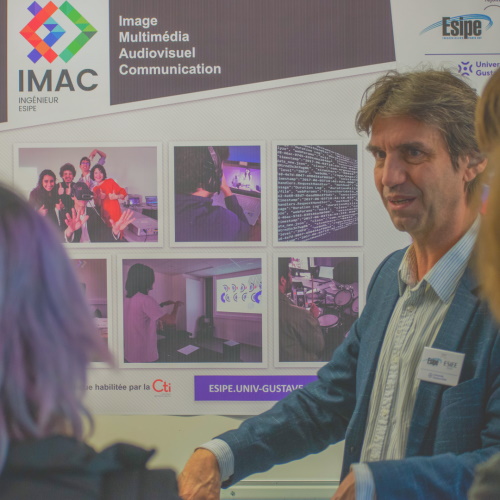
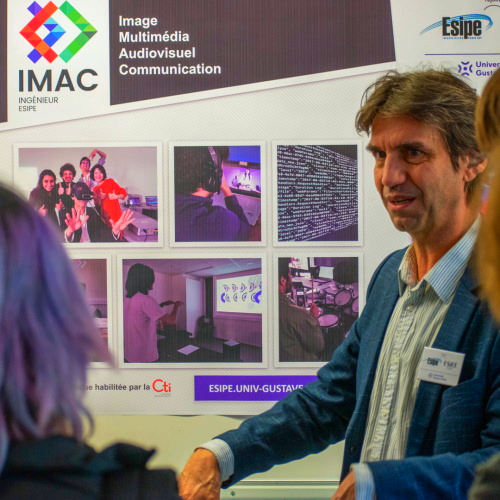
fix histogram

diff --git a/src/main.cpp b/src/main.cpp
@@ -18,17 +18,17 @@ void pngs_to_gif(const std::string prefix = "") {
 
 int main() // Circle
 {
-    sil::Image image {500/*width*/, 1000/*height*/};
-    glm::vec2 center ;
-    rectangle(image, {0, 0}, 500, 1000, 0.96f, 0.5f, 1.0f);
-    rectangle(image, {250, 500}, 100, 450, 0.25f, 0.25f, 0.25f);
-    rectangle(image, {100, 900}, 50, 50, 0.25f, 0.25f, 0.25f);
-    rectangle(image, {400, 900}, 50, 50, 0.25f, 0.25f, 0.25f);
-    eye(image, {200, 860});
-    eye(image, {300, 860});
-    circle(image, {250, 50}, 20, 20, 0.0f, 0.0f, 0.0f);
-    rectangle(image, {250, 65}, 20, 10, 0.0f, 0.0f, 0.0f);
-    image.save("output/11.png");
+    // sil::Image image {500/*width*/, 1000/*height*/};
+    // glm::vec2 center ;
+    // rectangle(image, {0, 0}, 500, 1000, 0.96f, 0.5f, 1.0f);
+    // rectangle(image, {250, 500}, 100, 450, 0.25f, 0.25f, 0.25f);
+    // rectangle(image, {100, 900}, 50, 50, 0.25f, 0.25f, 0.25f);
+    // rectangle(image, {400, 900}, 50, 50, 0.25f, 0.25f, 0.25f);
+    // eye(image, {200, 860});
+    // eye(image, {300, 860});
+    // circle(image, {250, 50}, 20, 20, 0.0f, 0.0f, 0.0f);
+    // rectangle(image, {250, 65}, 20, 10, 0.0f, 0.0f, 0.0f);
+    // image.save("output/11.png");
 
     // sil::Image image {500/*width*/, 1000/*height*/};
 
@@ -68,9 +68,9 @@ int main() // Circle
     // gradient(image);
     // image.save("output/5.png");
 
-    // sil::Image image{"images/photo_faible_contraste.jpg"};
-    // histogram_normalization(image);
-    // image.save("output/histogram.png");
+    sil::Image image{"images/photo_faible_contraste.jpg"};
+    histogram_normalization(image);
+    image.save("output/histogram.png");
 
     // sil::Image image{500, 500};
     // circle(image, {250, 250}, 200, 200, 1.0f, 1.0f, 1.0f);

diff --git a/lib/image-utils.cpp b/lib/image-utils.cpp
@@ -325,12 +325,20 @@ void histogram_normalization(sil::Image& image) {
 
     std::cout << "min: " << min_brightness << " max: " << max_brightness << std::endl;
 
-    for (glm::vec3 color : image.pixels())
+    for (glm::vec3& color : image.pixels())
     {
         color.r = (color.r - min_brightness) / (max_brightness - min_brightness);
         color.g = (color.g - min_brightness) / (max_brightness - min_brightness);
         color.b = (color.b - min_brightness) / (max_brightness - min_brightness);
     }
+
+
+    // for (glm::vec3 color : image.pixels())
+    // {
+    //     color.r = (color.r - min_brightness) / (max_brightness - min_brightness);
+    //     color.g = (color.g - min_brightness) / (max_brightness - min_brightness);
+    //     color.b = (color.b - min_brightness) / (max_brightness - min_brightness);
+    // }
 }
 
 void print_2D_vector(const std::vector<std::vector<float>>& vector)
